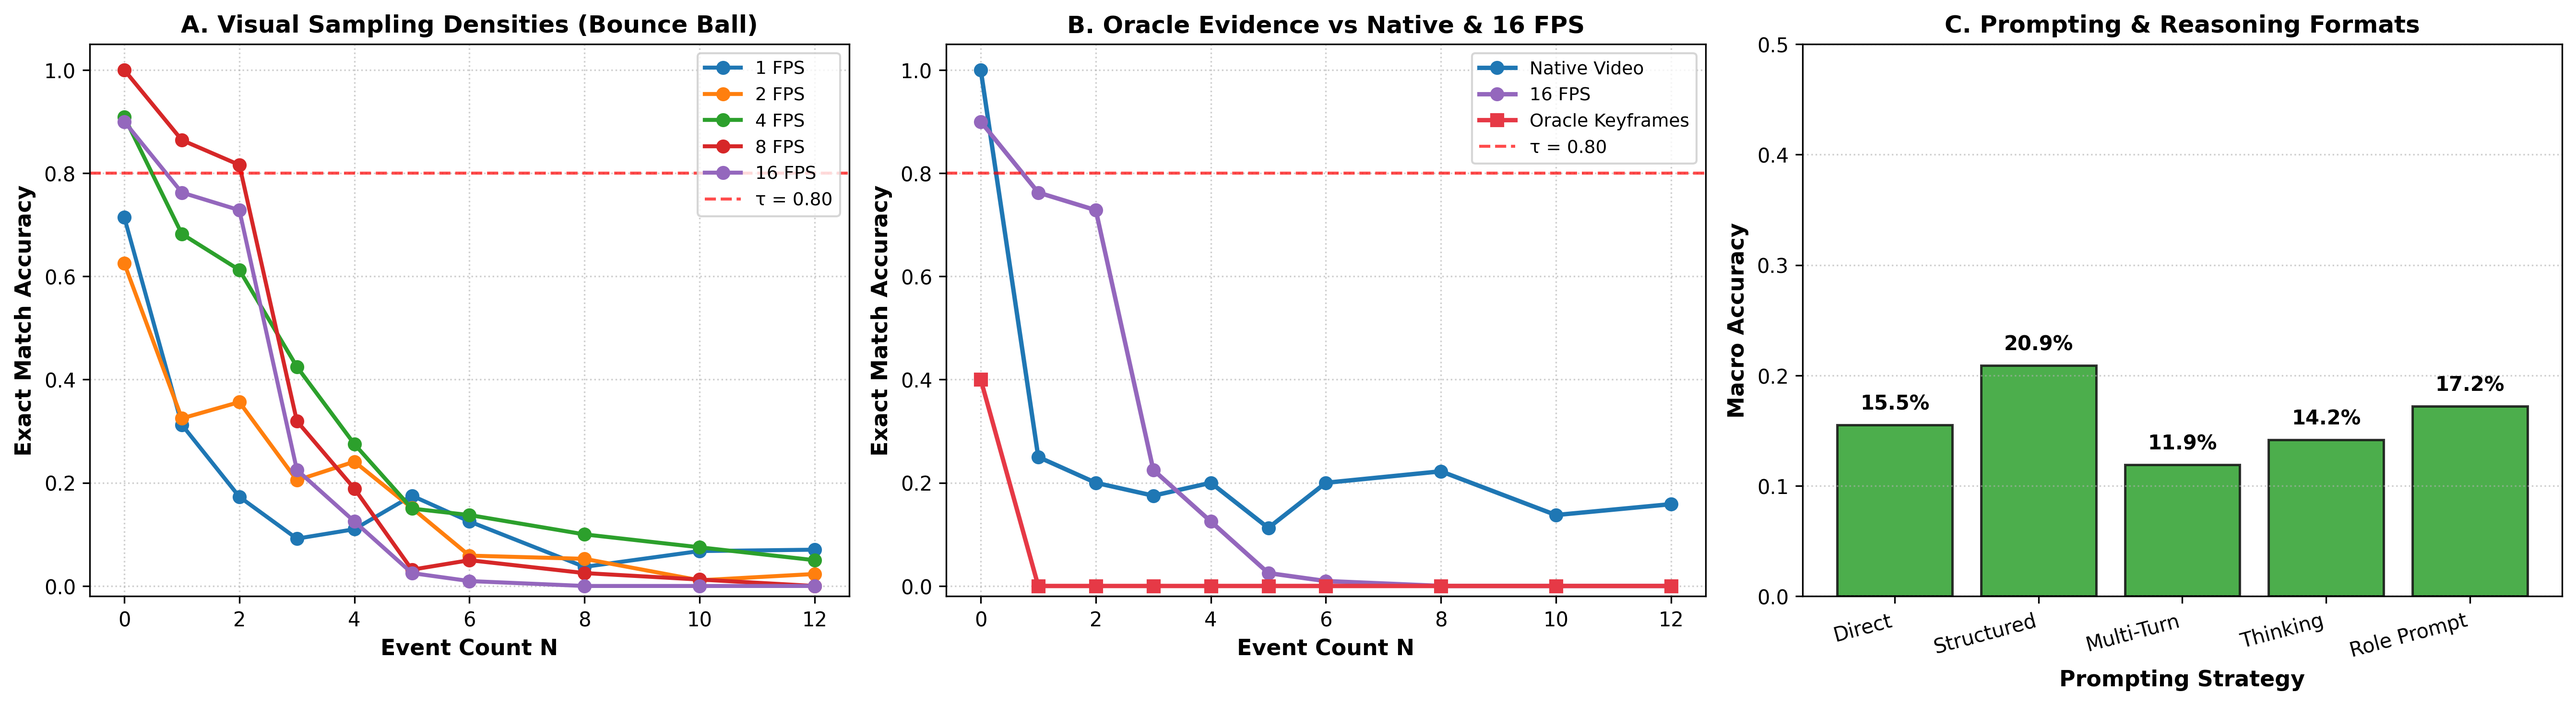
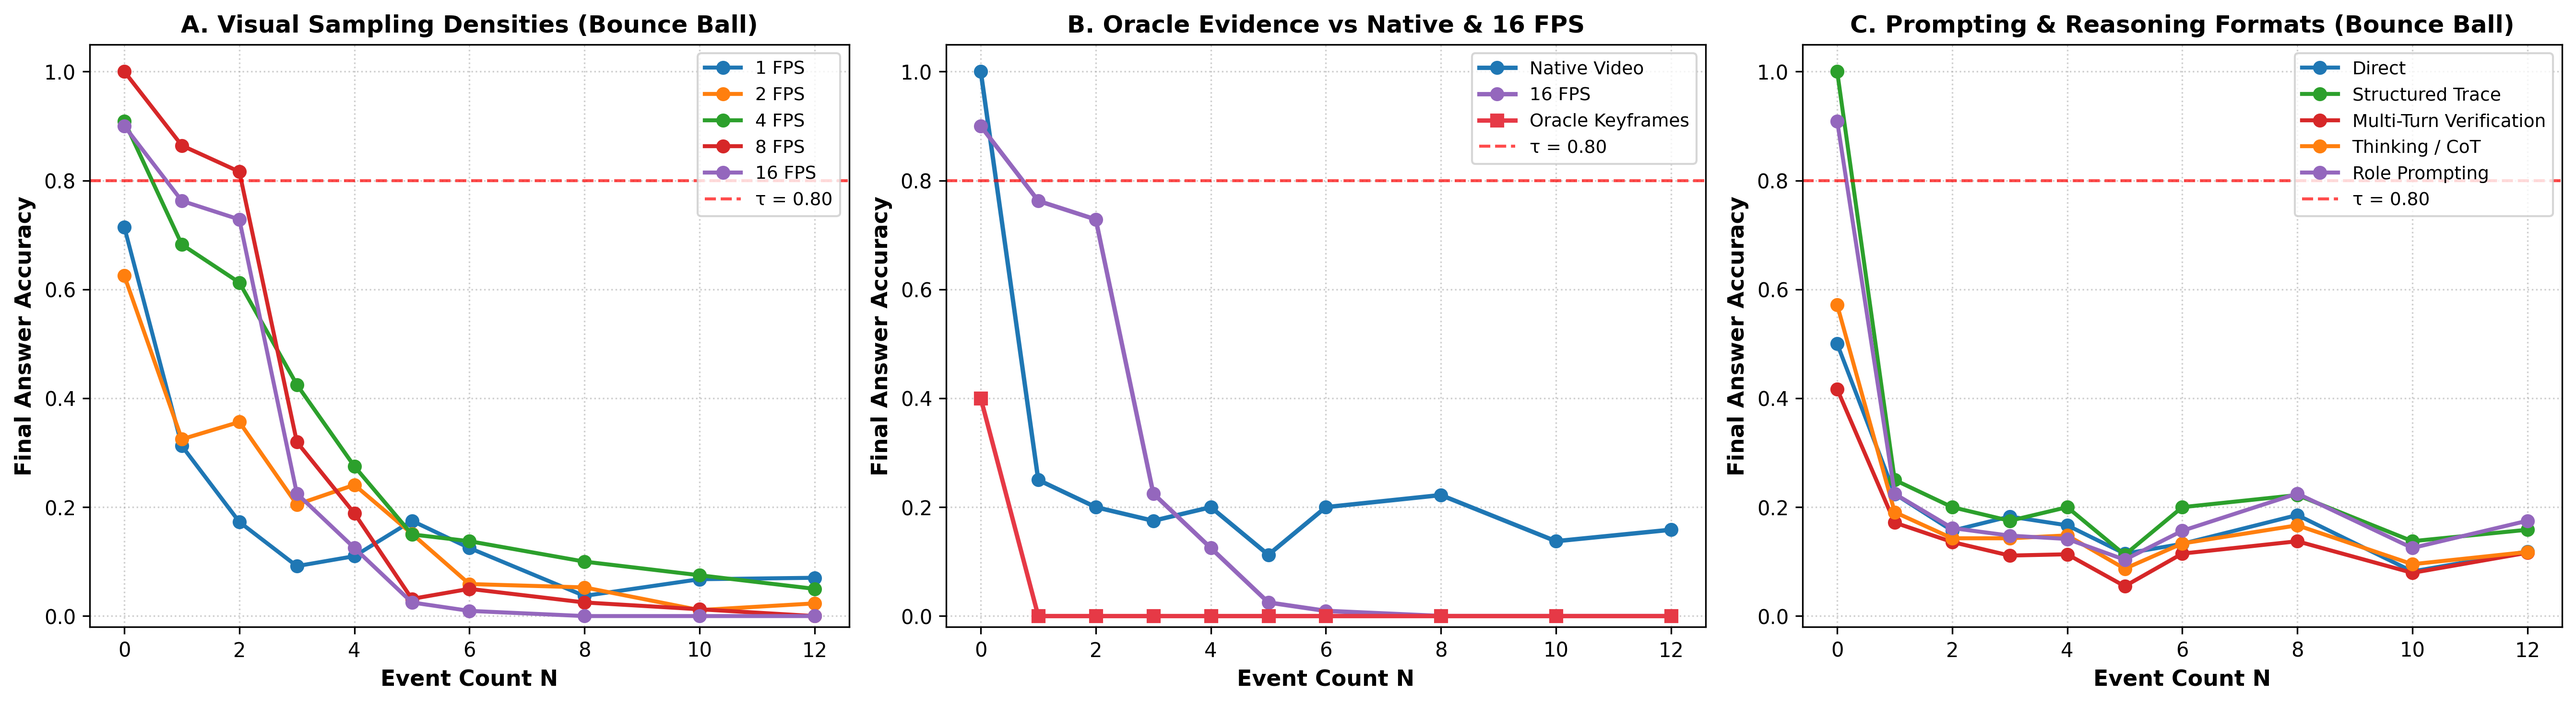
Generate clean required paper artifacts: Fig 1, Fig 3, Fig 4 (line plot Panel C), and Table 1 with Final Answer Accuracy labels

diff --git a/scripts/build_paper_figures_and_tables.py b/scripts/build_paper_figures_and_tables.py
@@ -42,7 +42,7 @@ def load_gt_events(sample_id, domain, root_dir):
 def compute_metrics(records, root_dir, delta_t=1.0):
     total = len(records)
     if total == 0:
-        return {"em": 0.0, "vor": 0.0, "p": 0.0, "r": 0.0, "f1": 0.0, "acr": 0.0, "rfr": 0.0}
+        return {"acc": 0.0, "vor": 0.0, "p": 0.0, "r": 0.0, "f1": 0.0, "acr": 0.0, "rfr": 0.0}
     
     em_hits = 0
     vor_sum = 0.0
@@ -96,7 +96,7 @@ def compute_metrics(records, root_dir, delta_t=1.0):
             rfr_count += 1
 
     return {
-        "em": (em_hits / total) * 100.0,
+        "acc": (em_hits / total) * 100.0,
         "vor": vor_sum / total,
         "p": (p_sum / total) * 100.0,
         "r": (r_sum / total) * 100.0,
@@ -109,13 +109,26 @@ def main():
     root_dir = Path(__file__).resolve().parent.parent
     outputs_dir = root_dir / "outputs"
     paper_dir = outputs_dir / "paper"
+
+    # Clean paper_dir completely
+    if paper_dir.exists():
+        for item in paper_dir.glob("*"):
+            if item.is_file():
+                item.unlink()
     paper_dir.mkdir(parents=True, exist_ok=True)
 
-    print(f"=== Building Paper Figures & Tables in {paper_dir} ===")
+    print(f"=== Generating Required Paper Artifacts in {paper_dir} ===")
 
     # -------------------------------------------------------------
-    # 1. TABLE 1: Complete 3-Part Trace-Grounded Evaluation Table
+    # FIGURE 1: Generate Dataset Overview Figure
     # -------------------------------------------------------------
+    os.system("python3 scripts/make_dataset_overview_figure.py")
+    overview_fig = outputs_dir / "dataset_overview_figure.png"
+    if overview_fig.exists():
+        os.system(f"cp {overview_fig} {paper_dir}/fig_1_dataset_overview.png")
+        print(f"Saved {paper_dir}/fig_1_dataset_overview.png")
+
+    # Load baseline records for Table 1 and Figure 3
     baseline_file = outputs_dir / "results_matrix_gemini_gemini-3.6-flash_native_video_structured_trace.jsonl"
     baseline_records = []
     if baseline_file.exists():
@@ -129,16 +142,19 @@ def main():
                         rec["F_hz"] = freq
                         baseline_records.append(rec)
 
+    # -------------------------------------------------------------
+    # TABLE 1: 3-Part Trace-Grounded Evaluation Table
+    # -------------------------------------------------------------
     # Part A: By Task
     tasks = [("Bounce Ball", "bounce_ball"), ("Blinking", "blinking"), ("State Machine", "state_machine")]
     part_a_rows = []
     for label, domain in tasks:
         sub = [r for r in baseline_records if r["task"] == domain]
         m = compute_metrics(sub, root_dir)
-        part_a_rows.append(f"  {label:<24} & {m['em']:5.1f}\\% & {m['vor']:4.2f} & {m['p']:5.1f}\\% & {m['r']:5.1f}\\% & {m['f1']:5.1f}\\% & {m['acr']:4.1f}\\% & {m['rfr']:4.1f}\\% \\\\")
+        part_a_rows.append(f"  {label:<24} & {m['acc']:5.1f}\\% & {m['vor']:4.2f} & {m['p']:5.1f}\\% & {m['r']:5.1f}\\% & {m['f1']:5.1f}\\% & {m['acr']:4.1f}\\% & {m['rfr']:4.1f}\\% \\\\")
 
     m_macro = compute_metrics(baseline_records, root_dir)
-    part_a_rows.append(f"  \\textbf{{Macro Average}}        & \\textbf{{{m_macro['em']:5.1f}\\%}} & \\textbf{{{m_macro['vor']:4.2f}}} & \\textbf{{{m_macro['p']:5.1f}\\%}} & \\textbf{{{m_macro['r']:5.1f}\\%}} & \\textbf{{{m_macro['f1']:5.1f}\\%}} & \\textbf{{{m_macro['acr']:4.1f}\\%}} & \\textbf{{{m_macro['rfr']:4.1f}\\%}} \\\\")
+    part_a_rows.append(f"  \\textbf{{Macro Average}}        & \\textbf{{{m_macro['acc']:5.1f}\\%}} & \\textbf{{{m_macro['vor']:4.2f}}} & \\textbf{{{m_macro['p']:5.1f}\\%}} & \\textbf{{{m_macro['r']:5.1f}\\%}} & \\textbf{{{m_macro['f1']:5.1f}\\%}} & \\textbf{{{m_macro['acr']:4.1f}\\%}} & \\textbf{{{m_macro['rfr']:4.1f}\\%}} \\\\")
 
     # Part B: Region Subsets
     regions = [
@@ -151,7 +167,7 @@ def main():
     for label, cond in regions:
         sub = [r for r in baseline_records if cond(r)]
         m = compute_metrics(sub, root_dir)
-        part_b_rows.append(f"  {label:<24} & {m['em']:5.1f}\\% & {m['vor']:4.2f} & {m['p']:5.1f}\\% & {m['r']:5.1f}\\% & {m['f1']:5.1f}\\% & {m['acr']:4.1f}\\% & {m['rfr']:4.1f}\\% \\\\")
+        part_b_rows.append(f"  {label:<24} & {m['acc']:5.1f}\\% & {m['vor']:4.2f} & {m['p']:5.1f}\\% & {m['r']:5.1f}\\% & {m['f1']:5.1f}\\% & {m['acr']:4.1f}\\% & {m['rfr']:4.1f}\\% \\\\")
 
     # Part C: Bounce Ball Interventions
     interventions_files = [
@@ -176,7 +192,7 @@ def main():
                         if rec.get("task") == "bounce_ball" and rec.get("exact_match_result") is not None:
                             sub.append(rec)
         m = compute_metrics(sub, root_dir)
-        part_c_rows.append(f"  {label:<32} & {m['em']:5.1f}\\% & {m['vor']:4.2f} & {m['p']:5.1f}\\% & {m['r']:5.1f}\\% & {m['f1']:5.1f}\\% & {m['acr']:4.1f}\\% & {m['rfr']:4.1f}\\% \\\\")
+        part_c_rows.append(f"  {label:<32} & {m['acc']:5.1f}\\% & {m['vor']:4.2f} & {m['p']:5.1f}\\% & {m['r']:5.1f}\\% & {m['f1']:5.1f}\\% & {m['acr']:4.1f}\\% & {m['rfr']:4.1f}\\% \\\\")
 
     tab1_latex = f"""\\begin{{table*}}[t]
 \\centering
@@ -185,7 +201,7 @@ def main():
 \\label{{tab:trace_grounded_evaluation}}
 \\begin{{tabular}}{{lrrrrrrr}}
 \\toprule
-\\textbf{{Evaluation Domain / Region}} & \\textbf{{Final EM (\\%)}} & \\textbf{{VOR}} & \\textbf{{Trace P (\\%)}} & \\textbf{{Trace R (\\%)}} & \\textbf{{Trace F1 (\\%)}} & \\textbf{{ACR (\\%)}} & \\textbf{{RFR (\\%)}} \\\\
+\\textbf{{Evaluation Domain / Region}} & \\textbf{{Final Answer Accuracy (\\%)}} & \\textbf{{VOR}} & \\textbf{{Trace P (\\%)}} & \\textbf{{Trace R (\\%)}} & \\textbf{{Trace F1 (\\%)}} & \\textbf{{ACR (\\%)}} & \\textbf{{RFR (\\%)}} \\\\
 \\midrule
 \\multicolumn{{8}}{{l}}{{\\textbf{{Part A: Trace Evaluation by Task Domain}}}} \\\\
 {chr(10).join(part_a_rows)}
@@ -208,7 +224,7 @@ def main():
     print(f"Saved {tab1_path}")
 
     # -------------------------------------------------------------
-    # 2. FIGURE 3: N x F Heatmaps across Baseline Domains
+    # FIGURE 3: N x F Heatmaps across Baseline Domains
     # -------------------------------------------------------------
     df_base = pd.DataFrame(baseline_records)
     fig, axes = plt.subplots(1, 3, figsize=(18, 5.5), dpi=300)
@@ -240,7 +256,7 @@ def main():
                 vmin=0.0,
                 vmax=1.0,
                 cbar=(idx == 2),
-                cbar_kws={"label": "Exact Match Accuracy"} if idx == 2 else None
+                cbar_kws={"label": "Final Answer Accuracy"} if idx == 2 else None
             )
             axes[idx].set_title(f"{domain_labels[domain]} ($N \\times F$ Matrix)", fontsize=13, fontweight="bold", pad=10)
             axes[idx].set_xlabel("Event Frequency F (Hz)", fontsize=11, fontweight="bold")
@@ -253,11 +269,11 @@ def main():
     print(f"Saved {fig_3_path}")
 
     # -------------------------------------------------------------
-    # 3. FIGURE 4: Intervention Analysis Plots (3 Panels)
+    # FIGURE 4: Intervention Analysis Line Plots (Panels A, B, C)
     # -------------------------------------------------------------
     fig, (ax_a, ax_b, ax_c) = plt.subplots(1, 3, figsize=(18, 5), dpi=300)
 
-    # Panel A: Sampling Densities (1, 2, 4, 8, 16 FPS vs N)
+    # Panel A: Sampling Densities vs N
     fps_modes = [("1 FPS", "frames_1fps"), ("2 FPS", "frames_2fps"), ("4 FPS", "frames_4fps"), ("8 FPS", "frames_8fps"), ("16 FPS", "frames_16fps")]
     colors_fps = ["#1f77b4", "#ff7f0e", "#2ca02c", "#d62728", "#9467bd"]
 
@@ -281,12 +297,12 @@ def main():
     ax_a.axhline(0.80, color="red", linestyle="--", alpha=0.7, label="τ = 0.80")
     ax_a.set_title("A. Visual Sampling Densities (Bounce Ball)", fontsize=12, fontweight="bold")
     ax_a.set_xlabel("Event Count N", fontsize=11, fontweight="bold")
-    ax_a.set_ylabel("Exact Match Accuracy", fontsize=11, fontweight="bold")
+    ax_a.set_ylabel("Final Answer Accuracy", fontsize=11, fontweight="bold")
     ax_a.set_ylim(-0.02, 1.05)
     ax_a.grid(True, linestyle=":", alpha=0.6)
     ax_a.legend(fontsize=9, loc="upper right")
 
-    # Panel B: Oracle Evidence vs Native vs 16 FPS
+    # Panel B: Oracle Evidence vs Native vs 16 FPS vs N
     panel_b_modes = [("Native Video", "results_matrix_gemini_gemini-3.6-flash_native_video_structured_trace.jsonl", "#1f77b4"),
                      ("16 FPS", "results_matrix_gemini_gemini-3.6-flash_frames_16fps_structured_trace.jsonl", "#9467bd"),
                      ("Oracle Keyframes", "results_matrix_gemini_gemini-3.6-flash_oracle_evidence_structured_trace.jsonl", "#e63946")]
@@ -311,21 +327,19 @@ def main():
     ax_b.axhline(0.80, color="red", linestyle="--", alpha=0.7, label="τ = 0.80")
     ax_b.set_title("B. Oracle Evidence vs Native & 16 FPS", fontsize=12, fontweight="bold")
     ax_b.set_xlabel("Event Count N", fontsize=11, fontweight="bold")
-    ax_b.set_ylabel("Exact Match Accuracy", fontsize=11, fontweight="bold")
+    ax_b.set_ylabel("Final Answer Accuracy", fontsize=11, fontweight="bold")
     ax_b.set_ylim(-0.02, 1.05)
     ax_b.grid(True, linestyle=":", alpha=0.6)
     ax_b.legend(fontsize=9, loc="upper right")
 
-    # Panel C: Prompting Strategies Macro Accuracy
-    prompt_strats = [("Direct", "results_matrix_gemini_gemini-3.6-flash_native_video_direct.jsonl"),
-                     ("Structured", "results_matrix_gemini_gemini-3.6-flash_native_video_structured_trace.jsonl"),
-                     ("Multi-Turn", "results_matrix_gemini_gemini-3.6-flash_native_video_multi_turn_verification.jsonl"),
-                     ("Thinking", "results_matrix_gemini_gemini-3.6-flash_native_video_thinking.jsonl"),
-                     ("Role Prompt", "results_matrix_gemini_gemini-3.6-flash_native_video_role_prompting.jsonl")]
+    # Panel C: Prompting Strategies Line Plot vs N
+    prompt_strats = [("Direct", "results_matrix_gemini_gemini-3.6-flash_native_video_direct.jsonl", "#1f77b4"),
+                     ("Structured Trace", "results_matrix_gemini_gemini-3.6-flash_native_video_structured_trace.jsonl", "#2ca02c"),
+                     ("Multi-Turn Verification", "results_matrix_gemini_gemini-3.6-flash_native_video_multi_turn_verification.jsonl", "#d62728"),
+                     ("Thinking / CoT", "results_matrix_gemini_gemini-3.6-flash_native_video_thinking.jsonl", "#ff7f0e"),
+                     ("Role Prompting", "results_matrix_gemini_gemini-3.6-flash_native_video_role_prompting.jsonl", "#9467bd")]
 
-    p_names = []
-    p_accs = []
-    for label, fname in prompt_strats:
+    for label, fname, color in prompt_strats:
         fpath = outputs_dir / fname
         if fpath.exists():
             recs = []
@@ -333,24 +347,22 @@ def main():
                 for line in f:
                     if line.strip():
                         r = json.loads(line)
-                        if r.get("exact_match_result") is not None:
-                            recs.append(r.get("exact_match_result", False))
+                        if r.get("task") == "bounce_ball" and r.get("exact_match_result") is not None:
+                            n, _ = parse_n_and_f(r["sample_id"])
+                            r["N_count"] = n
+                            recs.append(r)
             if recs:
-                p_names.append(label)
-                p_accs.append(np.mean(recs))
+                df_c = pd.DataFrame(recs)
+                n_grouped = df_c.groupby("N_count")["exact_match_result"].mean()
+                ax_c.plot(n_grouped.index, n_grouped.values, marker="o", label=label, color=color, linewidth=2)
 
-    bars_c = ax_c.bar(p_names, p_accs, color="#2ca02c", edgecolor="#111111", linewidth=1.2, alpha=0.85)
     ax_c.axhline(0.80, color="red", linestyle="--", alpha=0.7, label="τ = 0.80")
-    ax_c.set_title("C. Prompting & Reasoning Formats", fontsize=12, fontweight="bold")
-    ax_c.set_xlabel("Prompting Strategy", fontsize=11, fontweight="bold")
-    ax_c.set_ylabel("Macro Accuracy", fontsize=11, fontweight="bold")
-    ax_c.set_ylim(0, 0.5)
-    ax_c.grid(axis="y", linestyle=":", alpha=0.6)
-    plt.setp(ax_c.get_xticklabels(), rotation=15, ha="right")
-
-    for bar in bars_c:
-        yval = bar.get_height()
-        ax_c.text(bar.get_x() + bar.get_width()/2.0, yval + 0.01, f"{yval:.1%}", ha="center", va="bottom", fontsize=10, fontweight="bold")
+    ax_c.set_title("C. Prompting & Reasoning Formats (Bounce Ball)", fontsize=12, fontweight="bold")
+    ax_c.set_xlabel("Event Count N", fontsize=11, fontweight="bold")
+    ax_c.set_ylabel("Final Answer Accuracy", fontsize=11, fontweight="bold")
+    ax_c.set_ylim(-0.02, 1.05)
+    ax_c.grid(True, linestyle=":", alpha=0.6)
+    ax_c.legend(fontsize=9, loc="upper right")
 
     plt.tight_layout()
     fig_4_path = paper_dir / "fig_4_intervention_analysis.png"
@@ -358,39 +370,7 @@ def main():
     plt.close()
     print(f"Saved {fig_4_path}")
 
-    # -------------------------------------------------------------
-    # 4. FIGURE 5: Real-World Transfer (In-Boundary vs Out-of-Boundary)
-    # -------------------------------------------------------------
-    fig, ax_5 = plt.subplots(figsize=(7, 5), dpi=300)
-
-    in_bound_sub = [r["exact_match_result"] for r in baseline_records if r["N_count"] <= 4]
-    out_bound_sub = [r["exact_match_result"] for r in baseline_records if r["N_count"] > 4]
-
-    in_acc = np.mean(in_bound_sub) if in_bound_sub else 0.0
-    out_acc = np.mean(out_bound_sub) if out_bound_sub else 0.0
-
-    categories = ["In-Boundary (N ≤ 4)", "Out-of-Boundary (N > 4)"]
-    accuracies = [in_acc, out_acc]
-    colors = ["#1f77b4", "#d62728"]
-
-    bars_5 = ax_5.bar(categories, accuracies, color=colors, edgecolor="#111111", linewidth=1.2, width=0.55, alpha=0.88)
-    ax_5.axhline(0.80, color="red", linestyle="--", linewidth=1.5, label="Target Reliability (τ = 0.80)")
-    ax_5.set_title("Real-World Event Repetition Transfer Performance", fontsize=13, fontweight="bold", pad=12)
-    ax_5.set_ylabel("Exact Match Accuracy", fontsize=11, fontweight="bold")
-    ax_5.set_ylim(0, 0.6)
-    ax_5.grid(axis="y", linestyle=":", alpha=0.6)
-
-    for bar in bars_5:
-        yval = bar.get_height()
-        ax_5.text(bar.get_x() + bar.get_width()/2.0, yval + 0.01, f"{yval:.1%}", ha="center", va="bottom", fontsize=11, fontweight="bold")
-
-    plt.tight_layout()
-    fig_5_path = paper_dir / "fig_5_real_world_transfer.png"
-    plt.savefig(fig_5_path, dpi=300, bbox_inches="tight")
-    plt.close()
-    print(f"Saved {fig_5_path}")
-
-    # Copy to AAAI_27 directory
+    # Copy ONLY the required generated files to AAAI_27 directory
     aaai_figs = root_dir.parent / "morse papers/morse_profile/AAAI_27/figs"
     aaai_tabs = root_dir.parent / "morse papers/morse_profile/AAAI_27/tables-tex"
     if aaai_figs.exists():
@@ -398,7 +378,7 @@ def main():
     if aaai_tabs.exists():
         os.system(f"cp {paper_dir}/*.tex '{aaai_tabs}/'")
 
-    print("\n=== All Paper Figures and Tables Successfully Built & Synced! ===")
+    print("\n=== Clean Generation Complete: Saved 3 Figures and 1 Table to outputs/paper/ and synced to AAAI_27! ===")
 
 if __name__ == "__main__":
     main()

diff --git a/outputs/paper/tab_1_trace_grounded_evaluation.tex b/outputs/paper/tab_1_trace_grounded_evaluation.tex
@@ -5,7 +5,7 @@
 \label{tab:trace_grounded_evaluation}
 \begin{tabular}{lrrrrrrr}
 \toprule
-\textbf{Evaluation Domain / Region} & \textbf{Final EM (\%)} & \textbf{VOR} & \textbf{Trace P (\%)} & \textbf{Trace R (\%)} & \textbf{Trace F1 (\%)} & \textbf{ACR (\%)} & \textbf{RFR (\%)} \\
+\textbf{Evaluation Domain / Region} & \textbf{Final Answer Accuracy (\%)} & \textbf{VOR} & \textbf{Trace P (\%)} & \textbf{Trace R (\%)} & \textbf{Trace F1 (\%)} & \textbf{ACR (\%)} & \textbf{RFR (\%)} \\
 \midrule
 \multicolumn{8}{l}{\textbf{Part A: Trace Evaluation by Task Domain}} \\
   Bounce Ball              &  19.5\% & 0.71 &  73.4\% &  38.8\% &  44.9\% &  2.7\% &  4.6\% \\
